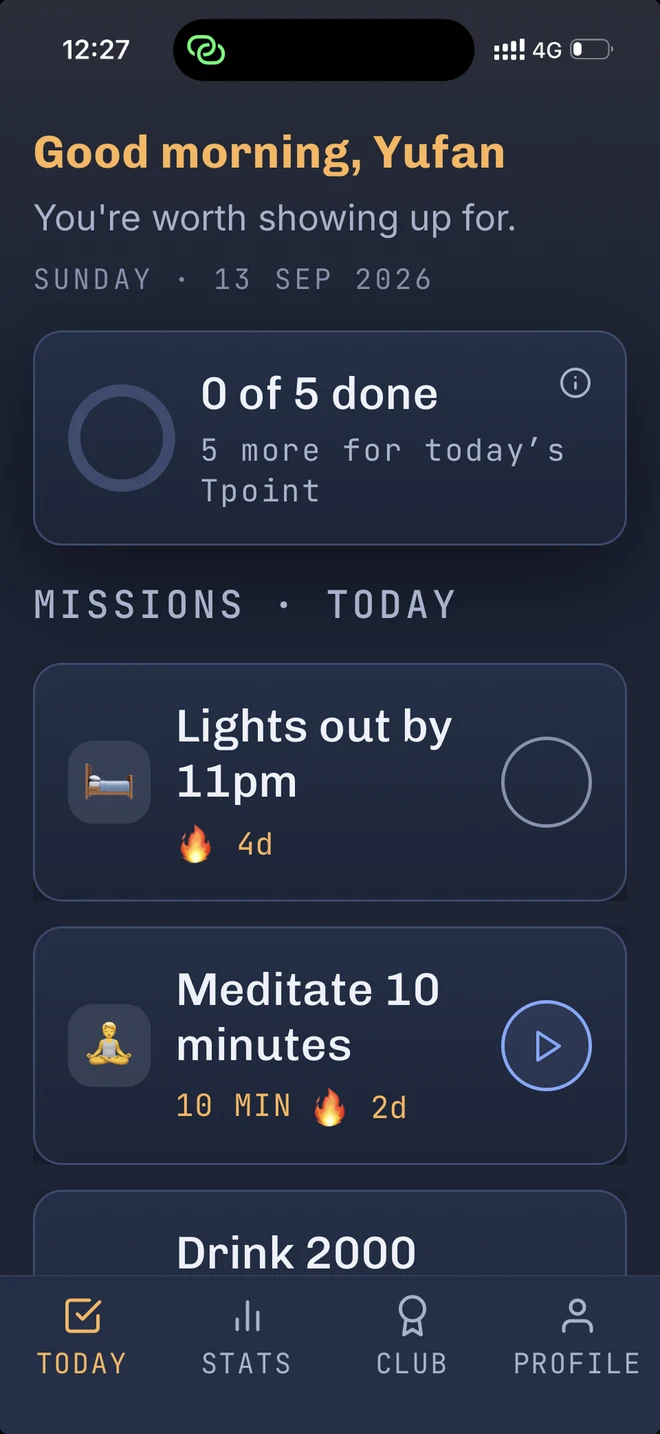
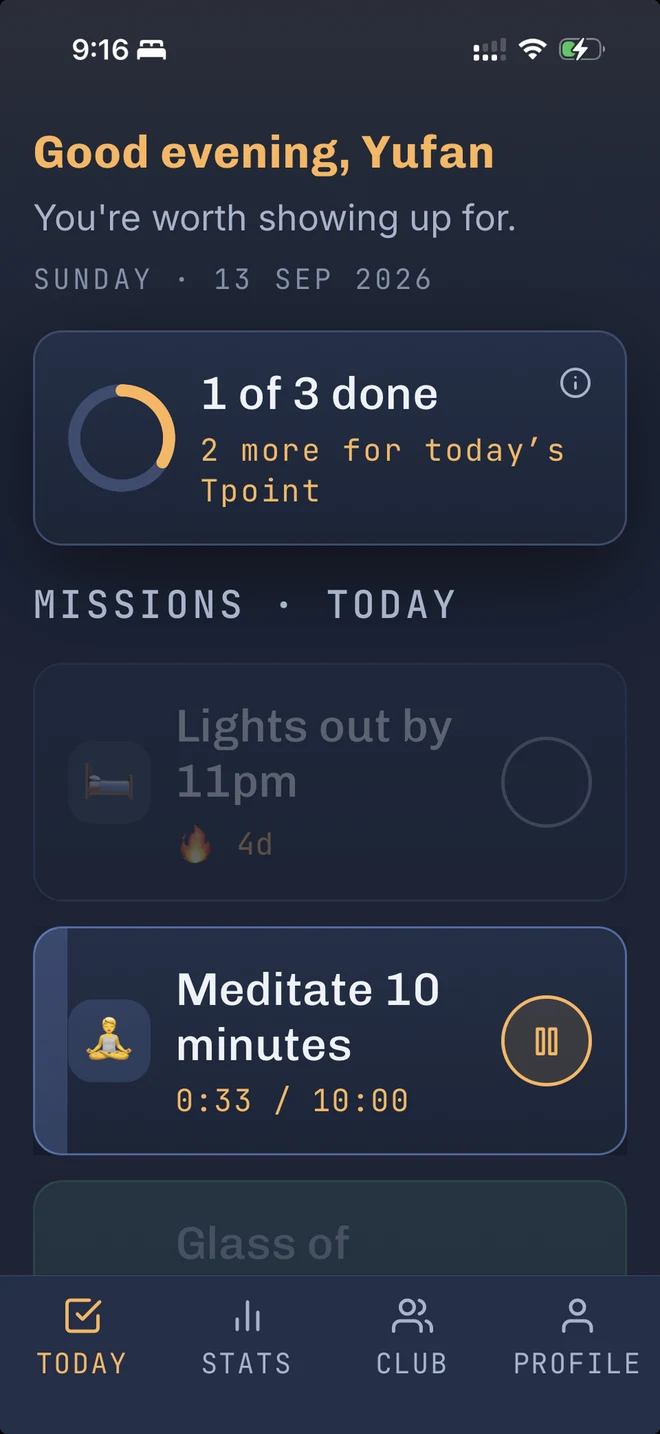
The hero shows a day in progress, not an untouched one
"0 of 5 done, 5 more for today's Tpoint" was the first thing anybody saw
of the app, under a heading that says "Not a mockup. This is the build on
Google Play." An empty day is a true screenshot of nobody having used it.

Replaced with a real capture mid-day: one of three done, the ring part
filled, and a ten-minute timer actually running at 0:33. The running
timer is the part worth having — it is the one control on that screen
that a still image can still show DOING something.

Alt text follows the shot, in both languages.

Claude-Session: https://claude.ai/code/session_015v4iv7JgLx8rptzk59XzNv

diff --git a/zh/index.html b/zh/index.html
@@ -405,7 +405,7 @@
             <div class="device device-front">
               <div class="device-frame"><span class="device-screen">
                 <img src="/assets/shots/01-today.webp" width="660" height="1434" loading="lazy" decoding="async"
-                     alt="「今天」畫面：問候語、5 項任務一項未完成、還差 5 項才拿得到今天的 T點數，以及「晚上 11 點前關燈」連續 4 天、10 分鐘的「冥想」計時任務連續 2 天，還有喝水的目標。" />
+                     alt="「今天」畫面：問候語、3 項任務完成 1 項、還差 2 項才拿得到今天的 T點數，「晚上 11 點前關燈」連續 4 天，以及「冥想 10 分鐘」正在計時，0:33 / 10:00。" />
               </span></div>
             </div>
           </div>

diff --git a/index.html b/index.html
@@ -463,7 +463,7 @@
             <div class="device device-front">
               <div class="device-frame"><span class="device-screen">
                 <img src="/assets/shots/01-today.webp" width="660" height="1434" loading="lazy" decoding="async"
-                     alt="The Today screen: a greeting, none of five missions complete with five to go for today’s Tpoint, and cards for Lights out by 11pm on a four-day streak, a ten-minute Meditate timer on a two-day streak, and a water target." />
+                     alt="The Today screen: a greeting, one of three missions complete with two to go for today’s Tpoint, Lights out by 11pm on a four-day streak, and a ten-minute Meditate timer running at 33 seconds." />
               </span></div>
             </div>
           </div>
